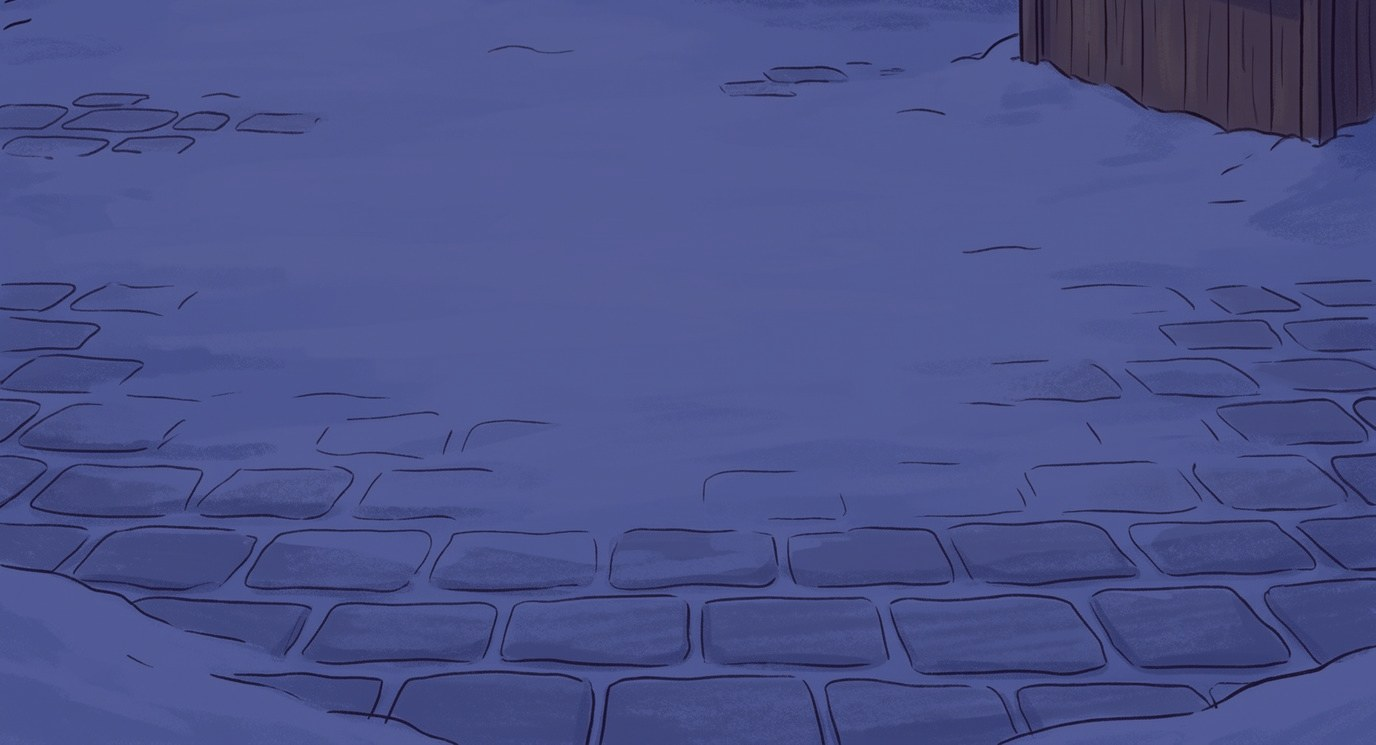
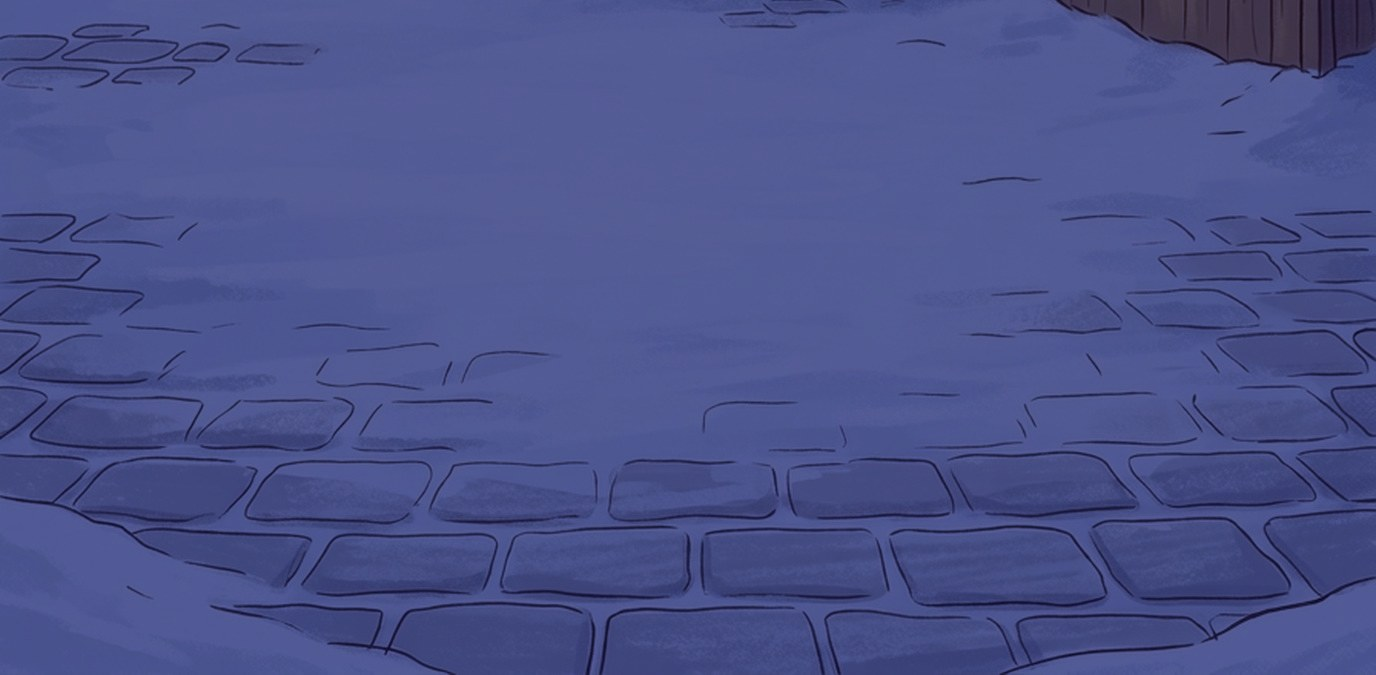
Christmas square at night and lit: the decorated tree too (Higgsfield lit edit with the star in frame, night darkened from day); unused sounds and mockups removed (user approved)

diff --git a/index.html b/index.html
@@ -1438,7 +1438,7 @@ button.polaroid:active{transform:rotate(var(--tilt)) translateY(2px) scale(.98);
   <audio id="stampThud" src="audio/stamp.mp3" preload="auto" hidden></audio>
   <!-- any close button (an x, or one that reads 닫기): a soft click (user sample freesound_community-ui-click-43196, trimmed) -->
   <audio id="closeClick" src="audio/ui-close.mp3" preload="auto" hidden></audio>
-  <!-- the discovery notice: a low marimba, two notes a fifth apart, once per notice (user pick F of design/sfx-discovery-mockups.html; scripts/make-discovery-sfx.py f-marimba) -->
+  <!-- the discovery notice: a low marimba, two notes a fifth apart, once per notice (user pick F of the sound mockups; scripts/make-discovery-sfx.py f-marimba) -->
   <audio id="discoveryChime" src="audio/discovery-marimba.wav" preload="auto" hidden></audio>
   <audio id="evidenceVoice" preload="auto" hidden></audio>
   <audio id="wordVoice" preload="none" hidden></audio>
@@ -3230,7 +3230,7 @@ const CHRISTMAS_CASE = {
         visit:{ ella:{ place:'tree', x:58, floor:97, height:44 }, holly:{ place:'tree', x:40, floor:97, height:42 }, mae:{ place:'tree', x:48.5, floor:98, height:32 }, tess:{ place:'tree', x:67, floor:97, height:38 } },
         open:{ who:'ella', key:'countdown', en:'Everyone, the star is back! Three, two, one!', ko:'여러분, 별이 돌아왔어요! 셋, 둘, 하나!' },
         lines:[
-          { key:'merry', flag:'lit', wide:{ x:53.5, w:41, top:300 }, peek:{ x:58, y:-259, w:36 }, en:'Merry Christmas!', ko:'메리 크리스마스!' },
+          { key:'merry', flag:'lit', wide:{ x:53.5, w:41, top:590 }, peek:{ x:58, y:-510, w:36 }, en:'Merry Christmas!', ko:'메리 크리스마스!' },
           { det:true, key:'star-shining', en:'The star is shining on the tree!', ko:'트리 위에서 별이 빛나고 있어!' }
         ] }
     ]
@@ -7279,7 +7279,7 @@ const ART = {
 // The picture's continuation above its top edge, shown only in the conversation and ending camera: the lit square's
 // sky with the tree's top and its gold star (the Higgsfield picture's band above the place picture, user request)
 const ART_SKY = {
-  tree:{ get src(){ return S.flags?.has('lit') ? 'assets/places/christmas/tree-lit-sky.jpg' : null; }, h:330 }
+  tree:{ get src(){ return S.flags?.has('lit') ? 'assets/places/christmas/tree-lit-sky.jpg' : null; }, h:621 }   // the decorated lit picture's sky and gold star
 };
 const ART_FLOOR = {
   library:{ src:'assets/places/library-floor.jpg', h:506 },
@@ -7307,9 +7307,8 @@ const ART_FLOOR = {
   backstage:{ src:'assets/places/violin/backstage-floor.jpg', h:825 },
   // the Christmas star case: one tall picture each
   // the night and the lit square have their own darker floor (user: a day floor under the night picture looked wrong)
-  // the day square is the decorated tree (user request), cut lower, so its floor is shorter than the night and lit ones
-  tree:     { get src(){ return `assets/places/christmas/tree-floor${S.flags?.has('lit') ? '-lit' : S.flags?.has('night') ? '-night' : ''}.jpg`; },
-              get h(){ return S.flags?.has('lit') || S.flags?.has('night') ? 745 : 675; } },
+  // the decorated tree (user request) by day, at night and lit, all cut alike (scripts/make-christmas-decorated-tree.py)
+  tree:     { get src(){ return `assets/places/christmas/tree-floor${S.flags?.has('lit') ? '-lit' : S.flags?.has('night') ? '-night' : ''}.jpg`; }, h:675 },
   storeroom:{ src:'assets/places/christmas/storeroom-floor.jpg', h:695 },
   tent:     { src:'assets/places/christmas/tent-floor.jpg', h:555 },
   sleigh:   { src:'assets/places/christmas/sleigh-floor.jpg', h:815 }

diff --git a/scripts/make-christmas-decorated-tree.py b/scripts/make-christmas-decorated-tree.py
@@ -2,7 +2,7 @@
 # tree-decorated-higgsfield-original.png (896x1200, its tree sits lower than the old one). Scaled to 1376x1843 as
 # scripts/cut-christmas-assets.py does; the band starts at 400 (not 330) so the tree's foot stays at the same height
 # in the picture; the rest is the floor (675 high, the old one 745). The case list photo is its upper 4:3.
-# Run from the project folder: python scripts/make-christmas-decorated-tree.py
+# Run from the project folder: python scripts/make-christmas-decorated-tree.py [old-day.jpg old-night.jpg]
 from PIL import Image
 D = 'assets/places/christmas/'
 src = Image.open(D + 'tree-decorated-higgsfield-original.png').convert('RGB')
@@ -12,3 +12,27 @@ im.crop((0, TOP, 1376, TOP + 768)).save(D + 'tree.jpg', quality=88)
 im.crop((0, TOP + 768, 1376, 1843)).save(D + 'tree-floor.jpg', quality=85)
 src.crop((0, 80, 896, 752)).resize((800, 600), Image.LANCZOS).save(D + 'tree-cover.jpg', quality=86)
 print('floor', 1843 - TOP - 768)
+
+# The lit square to match (user request): Higgsfield edit of the decorated picture with 144 px of plain sky added on
+# top (so the gold star fits), tree-lit-decorated-higgsfield-original.png (848x1264, as tall as that padded picture).
+# Scaled to 1376x2064 so it lines up with the day one: the day band starts 400 + 221 down, above it the lit sky.
+lit = Image.open(D + 'tree-lit-decorated-higgsfield-original.png').convert('RGB').resize((1376, 2064), Image.LANCZOS)
+LTOP = TOP + 221
+lit.crop((0, 0, 1376, LTOP)).save(D + 'tree-lit-sky.jpg', quality=88)
+lit.crop((0, LTOP, 1376, LTOP + 768)).save(D + 'tree-lit.jpg', quality=88)
+lit.crop((0, LTOP + 768, 1376, 2064)).save(D + 'tree-floor-lit.jpg', quality=85)
+print('lit sky', LTOP, 'floor', 2064 - LTOP - 768)
+
+# The night square (before the lighting): the day one darkened the way the first night picture was made from the
+# first day picture: each colour channel mapped from that day picture's mean and spread to the night one's
+# (old-day.jpg / old-night.jpg: the first day and night pictures, from git ea4f09c, passed as arguments)
+import sys
+from PIL import ImageStat
+if len(sys.argv) > 2:
+    s, t = ImageStat.Stat(Image.open(sys.argv[1]).convert('RGB')), ImageStat.Stat(Image.open(sys.argv[2]).convert('RGB'))
+    def night(im):
+        return Image.merge('RGB', [b.point(lambda v, c=c: max(0, min(255, round((v - s.mean[c]) * t.stddev[c] / s.stddev[c] + t.mean[c]))))
+                                   for c, b in enumerate(im.split())])
+    night(Image.open(D + 'tree.jpg').convert('RGB')).save(D + 'tree-night.jpg', quality=88)
+    night(Image.open(D + 'tree-floor.jpg').convert('RGB')).save(D + 'tree-floor-night.jpg', quality=88)
+    print('night made')

diff --git a/scripts/make-christmas-night-pieces.py b/scripts/make-christmas-night-pieces.py
@@ -1,3 +1,5 @@
+# NOT USED since the decorated tree (2026-11-11): scripts/make-christmas-decorated-tree.py cuts the day, night and lit
+# squares now. Running this would overwrite them with pieces of the old pictures.
 # The square's floor under the picture (tree-floor.jpg) for the night: each colour channel is mapped so the day
 # picture's bottom strip matches the night picture's (mean and spread), the way tree-night.jpg was darkened from the
 # day picture. The lit square's floor and sky come straight from its Higgsfield picture (the lit sky / floor block).

diff --git a/HANDOFF.md b/HANDOFF.md
@@ -143,7 +143,7 @@ node server.js            # http://localhost:5173/
 ### 3.0.3 다섯째 사건: 사라진 크리스마스트리의 별 (`?case=christmas`)
 
 - **데이터**: `CHRISTMAS_CASE`(설계서 `design/case-10-christmas-star.md`). 사건 카드 Case 05(도서관 다음), 이번 사건의 열쇠 `GRAMMAR['present-prog']` 4쪽(긍정·부정·Are you -ing?·What are you -ing?, 설계서 §8 예문; 예문 음성 `audio/examples/present-prog-*.wav`는 아직 없음). 저장 키 `detective.save.christmas`. 단어장·노트 뜻에 이 사건의 빈칸 단어를 없는 것만 더했다(`WORDS`·`GLOSS`).
-- **그림**(Higgsfield, `assets/places/christmas/`·`assets/characters/`, 7절 README): 광장(낮·어둡게 한 밤·불 켜진 트리; 낮 광장과 사건 목록 사진은 장식을 더한 트리 `tree-decorated-higgsfield-original.png`, `scripts/make-christmas-decorated-tree.py`로 자르고 바닥이 675로 짧음 — 밤·점등 그림은 아직 예전 트리; 낮 광장의 누를 거리 여덟: 큰 트리(위쪽)·작은 종·지팡이 사탕·장난감 기차·빨간 공·문 화환·안내지·언덕길, 단서 아님), 창고(저울을 가져가면 저울 없는 판), 천막(작업대 관찰 뒤 자동차 상자가 포장되고 클립보드 체크 넷), 썰매(상자를 열면 상자 속 금별; 저울은 들고 있어도 썰매 그림에 놓지 않음, 사용자 의견), 밤·점등 판 바닥(`tree-floor-night.jpg`은 낮 바닥 색을 맞춤, `tree-floor-lit.jpg`·하늘 `tree-lit-sky.jpg`은 점등 원본에서 자름, `scripts/make-christmas-night-pieces.py`; 하늘은 대화·엔딩 카메라에서만 그림 위에 붙음 `ART_SKY`), 창고 모퉁이 사진, 확대 조사 셋(장난감 작업대·별 장난감 뒷면·금별 뒷면, 흐린 장소 위), 축제장 지도(`PACK.map`). 장갑 상자를 누르면 그 자리에서 털장갑 상자가 잠깐 열렸다 닫힌다(`clue.peek`, `peekAt()`). 홀리·메이·니코와 니코 당황 표정(`nico:sad`도 같은 그림, 흰 스티커 테두리는 지움). 홀리·메이는 자기 장소에서 대화하지 않을 때 일하는 그림(`:work`), 대화를 열면 손을 멈추고 탐정을 보는 그림(기본 스프라이트, `spriteKey()`: `:work` 그림이 있으면 장소 화면·다른 사람과의 대화·엔딩에서 일하는 그림, 방문 중이면 기본). 말하는 입·얼굴 아이콘은 아직 없음. **점등 엔딩**(사용자 요청): "Merry Christmas!" 줄에서 말풍선·버튼을 숨기고 카메라가 트리를 타고 꼭대기 금별까지 천천히 올라갔다가(`peek`, 2.6초, 4초 머묾) 별과 넷이 다 보이는 넓은 화면으로 내려온 뒤(`wide.top`: 그림 위 300px까지 보이게) 엘라가 말한다. 불이 켜진 뒤로는 홀리·메이·엘라·테스가 뒷모습으로 트리를 보고, 말하는 사람만 앞을 본다(라운드의 `turn:'lit'`, `S.mood`=`back`, 뒷모습은 한 장 `xmas-backs-higgsfield-original.png`에서 `scripts/cut-christmas-backs.py`로 자름). **음성**(Higgsfield MiniMax, 감정 없음, `audio/christmas/`, 목록은 `scripts/christmas-voice-lines.js`가 게임 데이터에서 뽑음): 탐정 Grady 104문장(질문·행동·인사·생각·현장 관찰·소지품·추리 보드 `deduce/`·심문·마무리), 오소리 경사 Fraser 6줄, 엘라 Petra 12줄, 홀리 Mabel 6줄, 메이 Liza 5줄, 테스 Callan 9줄(우산 사건과 같은 목소리), 니코 Ian 19줄(사용자 결정: 모두 감정 없이), 같은 문장은 파일을 복사해 둠. 녹음 목록과 빠진 파일은 `scripts/christmas-voice-lines.js`로 확인(지금 빠진 것 없음).
+- **그림**(Higgsfield, `assets/places/christmas/`·`assets/characters/`, 7절 README): 광장(낮·어둡게 한 밤·불 켜진 트리; 낮·밤·점등 광장과 사건 목록 사진 모두 장식을 더한 트리: 낮 `tree-decorated-higgsfield-original.png`, 점등은 그 위에 하늘 144px을 덧대고 고친 `tree-lit-decorated-higgsfield-original.png`(꼭대기 금별까지 그림 안), 밤은 낮을 예전 낮→밤 색 변환으로 어둡게; 모두 `scripts/make-christmas-decorated-tree.py`가 자름(바닥 675, 점등 하늘 621; 예전 `make-christmas-night-pieces.py`는 쓰지 않음); 낮 광장의 누를 거리 여덟: 큰 트리(위쪽)·작은 종·지팡이 사탕·장난감 기차·빨간 공·문 화환·안내지·언덕길, 단서 아님), 창고(저울을 가져가면 저울 없는 판), 천막(작업대 관찰 뒤 자동차 상자가 포장되고 클립보드 체크 넷), 썰매(상자를 열면 상자 속 금별; 저울은 들고 있어도 썰매 그림에 놓지 않음, 사용자 의견), 밤·점등 판 바닥(`tree-floor-night.jpg`·`tree-floor-lit.jpg`·하늘 `tree-lit-sky.jpg`도 같은 스크립트; 하늘은 대화·엔딩 카메라에서만 그림 위에 붙음 `ART_SKY`), 창고 모퉁이 사진, 확대 조사 셋(장난감 작업대·별 장난감 뒷면·금별 뒷면, 흐린 장소 위), 축제장 지도(`PACK.map`). 장갑 상자를 누르면 그 자리에서 털장갑 상자가 잠깐 열렸다 닫힌다(`clue.peek`, `peekAt()`). 홀리·메이·니코와 니코 당황 표정(`nico:sad`도 같은 그림, 흰 스티커 테두리는 지움). 홀리·메이는 자기 장소에서 대화하지 않을 때 일하는 그림(`:work`), 대화를 열면 손을 멈추고 탐정을 보는 그림(기본 스프라이트, `spriteKey()`: `:work` 그림이 있으면 장소 화면·다른 사람과의 대화·엔딩에서 일하는 그림, 방문 중이면 기본). 말하는 입·얼굴 아이콘은 아직 없음. **점등 엔딩**(사용자 요청): "Merry Christmas!" 줄에서 말풍선·버튼을 숨기고 카메라가 트리를 타고 꼭대기 금별까지 천천히 올라갔다가(`peek`, 2.6초, 4초 머묾) 별과 넷이 다 보이는 넓은 화면으로 내려온 뒤(`wide.top`: 그림 위 300px까지 보이게) 엘라가 말한다. 불이 켜진 뒤로는 홀리·메이·엘라·테스가 뒷모습으로 트리를 보고, 말하는 사람만 앞을 본다(라운드의 `turn:'lit'`, `S.mood`=`back`, 뒷모습은 한 장 `xmas-backs-higgsfield-original.png`에서 `scripts/cut-christmas-backs.py`로 자름). **음성**(Higgsfield MiniMax, 감정 없음, `audio/christmas/`, 목록은 `scripts/christmas-voice-lines.js`가 게임 데이터에서 뽑음): 탐정 Grady 104문장(질문·행동·인사·생각·현장 관찰·소지품·추리 보드 `deduce/`·심문·마무리), 오소리 경사 Fraser 6줄, 엘라 Petra 12줄, 홀리 Mabel 6줄, 메이 Liza 5줄, 테스 Callan 9줄(우산 사건과 같은 목소리), 니코 Ian 19줄(사용자 결정: 모두 감정 없이), 같은 문장은 파일을 복사해 둠. 녹음 목록과 빠진 파일은 `scripts/christmas-voice-lines.js`로 확인(지금 빠진 것 없음).
 - **흐름**: 경사(광장 입구) → 첫 질문 b0 "What's missing?" 받아 적기(빈칸 Ella · information desk) → 노트를 닫으면 경사가 떠나(`gone:['badger:b0']`) 광장으로 돌아가고 안내소에 엘라(`unlocks.b0`, 생각 대사 없음) → 엘라 e0 → e1·e2(e2로 창고·이름 없는 양 홀리, 엘라의 물품 확인 허락 `after`) → 창고 사진(보관함 → 반짝이, 바깥 자국)·홀리 h1–h4(h4는 바깥 자국 사진 뒤) → h3로 천막의 메이·테스 → 테스는 받아쓰기 없는 행동 두 개(별 목격·창고 이유) 뒤 t1, `장난감들을 봐도 돼?`(확대 조사 `toys`, c-toys·장난감 자동차) → t3로 썰매의 니코(`unnamed:'Penguin'`) → 니코 n1–n5(창고 이유는 행동, n5는 썰매 바닥 사진 뒤) → n4 뒤 생각 → 테스 t4·`뒷면을 봐도 돼?`(확대 조사 `toystar`) → 썰매에서 `Tess's table` 관찰(`!table-seen`) → 추리 9문항 → `니코 심문 시작`.
 - **심문**(`ending.script`): 탐정의 선택 대사 → 주장 셋(테스의 선물 t3/c-toys, 메이 m3, 테스의 별 t4/c-toy-star; 틀리면 그 주장의 탐정 줄 `miss`) → 경사·엘라가 썰매에 합류(`join`, `PACK.lateJoin`·`joinPositions`)·개봉 지시(`open-order` 깃발) → **심문 멈춤**(`scene:'sleigh', until:['starback-0']`): 심문 화면이 닫히고 썰매 현장으로. 상자 다섯 중 장갑 상자는 "Just mittens in this one.", 셋째 상자를 열면 금별이 소지품에 들어오고(`box-open`) 상자 속 별 사진 → `Back of the star`(확대 조사 `starback`, `back:'sleigh'`) 사진을 찍고 노트를 닫으면 심문이 다음 주장부터 다시(게이지 그대로, `S.scriptPause`). 멈춘 동안 지도로 창고에 다녀올 수 있고, 창고 구석 저울은 개봉 지시 뒤에 주울 수 있다. **저울 쓰기**(사용자 선택 시안): 썰매에서 `소지품` → 저울 → `쓰기`(`items.scale.use`: 개봉 지시 뒤·상자를 열기 전, 썰매에서만) → 확대 조사 `weigh`(흐린 썰매 위 저울과 그 아래 상자 다섯 줄, 썰매와 같은 순서). 상자를 누르면 빈 접시로 올라가고(둘 다 차 있으면 오른쪽과 바뀜), 접시 위 상자를 누르면 내려온다. 무거운 쪽으로 8° 기울고 같으면 수평(`balance.weights` 1·1·3·1·1, 셋째가 별), 탐정은 말하지 않는다. 저울 그림 한 장을 팔 둘·접시 둘·기둥으로 잘라 돌린다(`WEIGH`, `weighArt()`, `plates`). `<`로 썰매에 돌아간다(`back:'sleigh'`). 테스트 도구는 이 상자들을 증거로 모으지 않는다. → 별이 아니라는 주장에 c-mark → 자백·경사가 니코를 데려감(니코·경사 `gone:['!confessed']`).
 - **반환·점등식**(`ending.handoff`): 썰매 앞의 엘라에게 이동 없이 금별 건네기 → 엘라의 초대 → `트리 광장으로 가기`: 그 차례의 `visit`로 엘라·홀리·메이·테스가 광장에 서고 `flag:'night'`(밤), "Merry Christmas!" 줄의 `flag:'lit'`(불 켜진 트리)와 `wide:{ x, w }`(사용자 요청: 엘라만 보이지 않게, 카메라가 천천히 뒤로 빠져 켜진 트리 앞의 엘라·홀리·메이·테스를 한 화면에, `ending.wide`가 있으면 `focusCamera()`가 그 폭에 맞춤, 마지막 탐정 줄까지 유지; 광장에 선 자리는 홀리 40·메이 48.5·엘라 58·테스 67%) → 복습.
